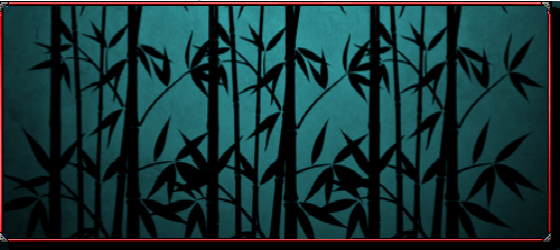
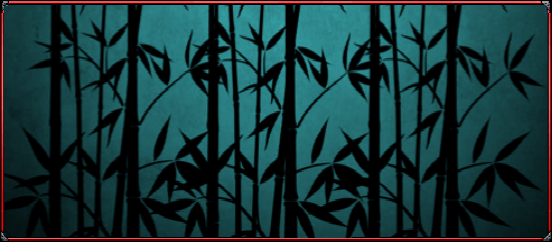
Upload SomeOne contents

diff --git a/projects/NarutoSenki/Classes/StartMenu.cpp b/projects/NarutoSenki/Classes/StartMenu.cpp
@@ -701,9 +701,11 @@ void StartMenu::showExitDialog()
 	confirm_bg->setPosition(Vec2(winSize.width / 2, winSize.height / 2));
 
 	auto title = CCLabelTTF::create("Exit Game", "Fonts/Roboto-Medium.ttf", 16);
+	title->setColor(ccBLACK);
 	title->setPosition(Vec2(winSize.width / 2, winSize.height / 2 + 38));
 
 	auto text = CCLabelTTF::create("Do you really want to exit?", "Fonts/Roboto-Medium.ttf", 12);
+	text->setColor(ccBLACK);
 	text->setPosition(Vec2(winSize.width / 2, winSize.height / 2 + 8));
 
 	MenuItem *yes_btn = MenuItemSprite::create(Sprite::createWithSpriteFrameName("yes_btn1.png"), Sprite::createWithSpriteFrameName("yes_btn2.png"), this, menu_selector(StartMenu::onExitYes));
